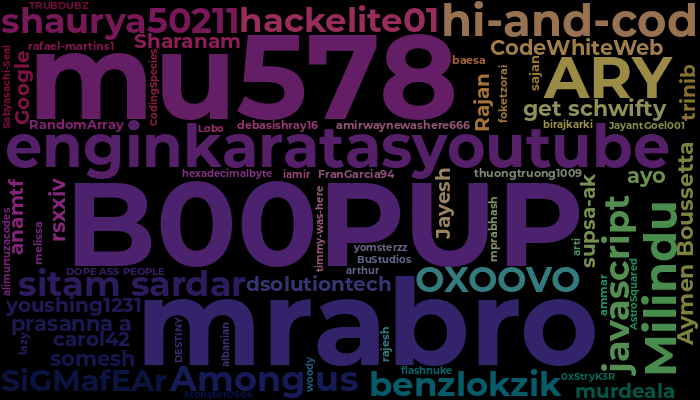
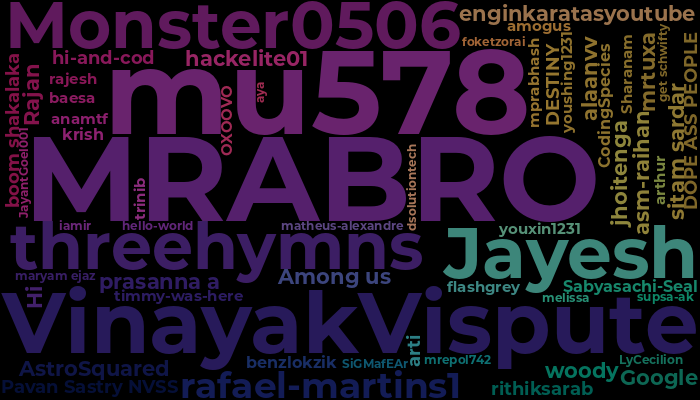
@t1noo7 added 't1l0o cho0co' here' to the Word Cloud

diff --git a/README.md b/README.md
@@ -14,8 +14,8 @@ Join the Word Cloud Board :cloud: :pencil2:
 
 ## 📛Github Usernames📛
 
-![Word Cloud Words Badge](https://img.shields.io/badge/Words%20in%20this%20Cloud-123-informational?labelColor=003995)
-![Word Cloud Contributors Badge](https://img.shields.io/badge/Cloud%20Contributors-109-blueviolet?labelColor=25004e)
+![Word Cloud Words Badge](https://img.shields.io/badge/Words%20in%20this%20Cloud-124-informational?labelColor=003995)
+![Word Cloud Contributors Badge](https://img.shields.io/badge/Cloud%20Contributors-110-blueviolet?labelColor=25004e)
 
 <img src="https://raw.githubusercontent.com/trinib/word-cloud/main/wordcloud/wordcloud.png" alt="WordCloud" width="100%">
 </div>
